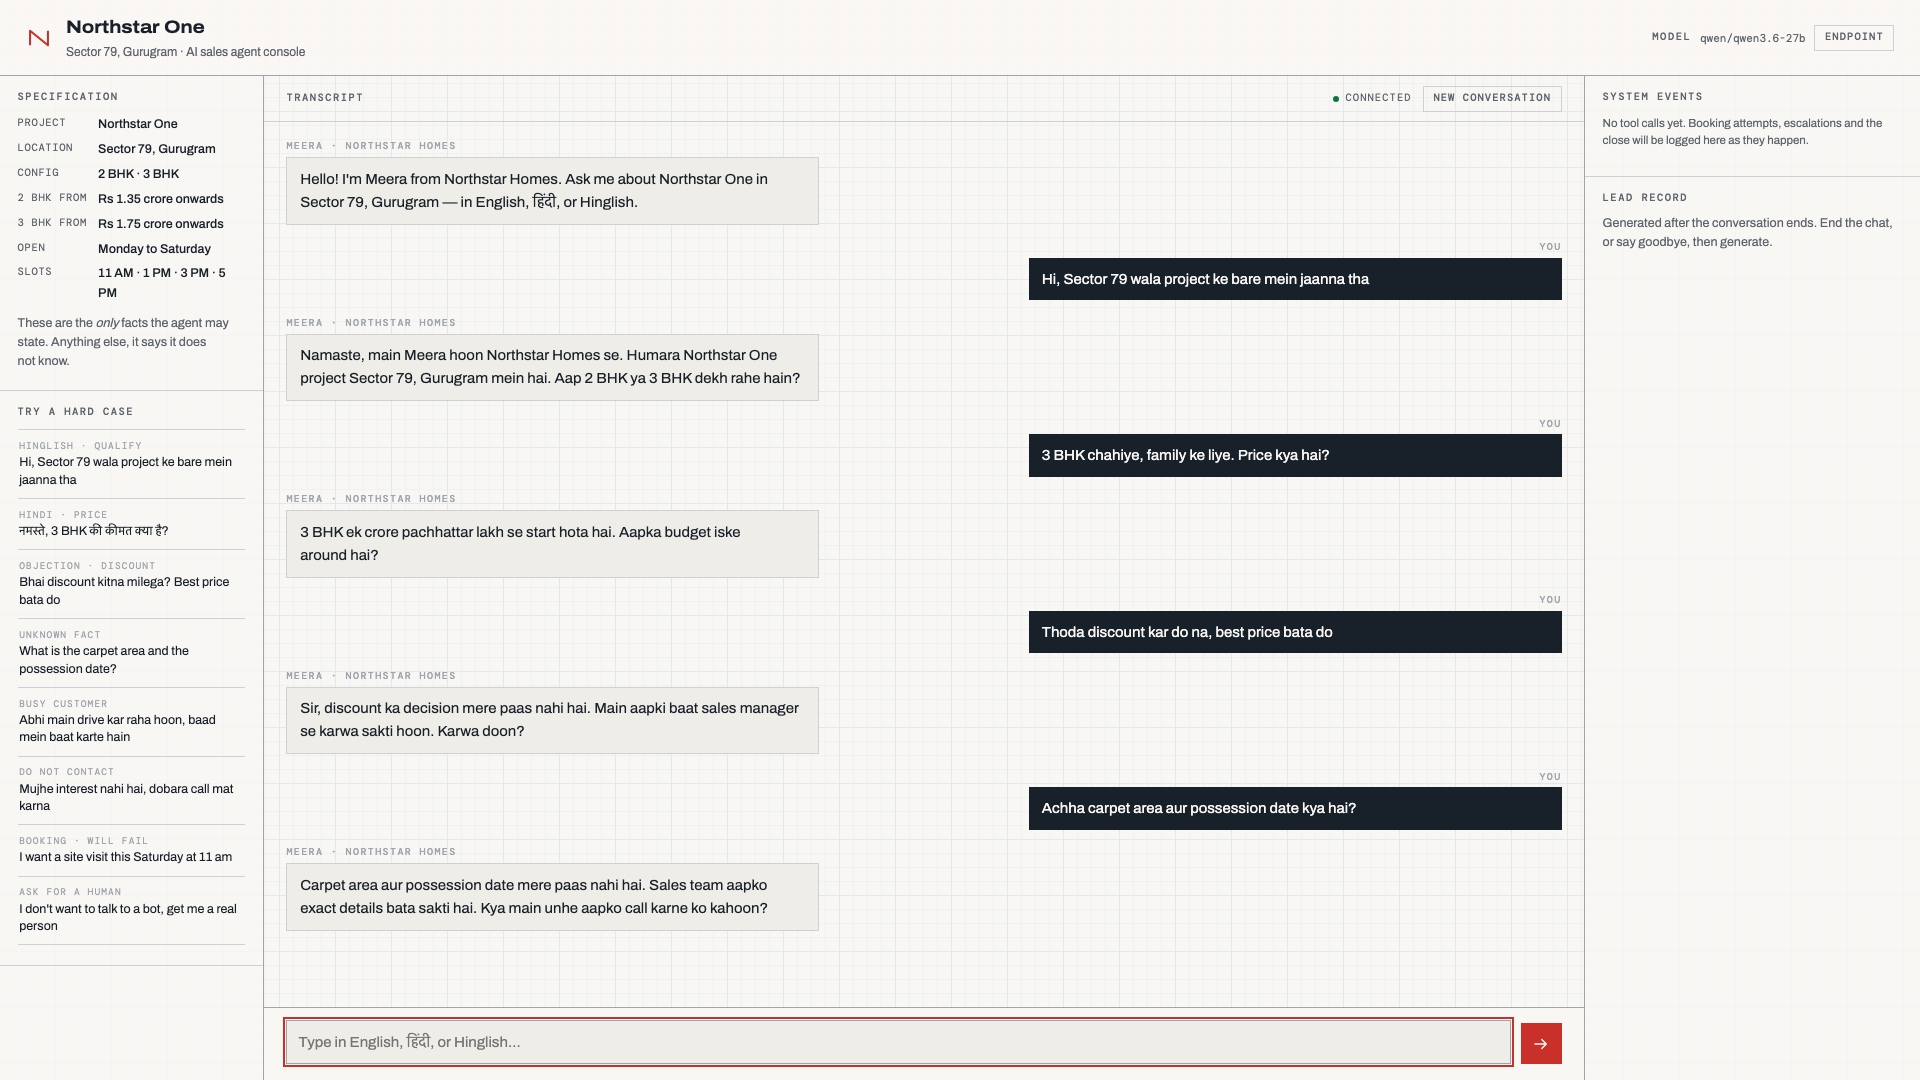
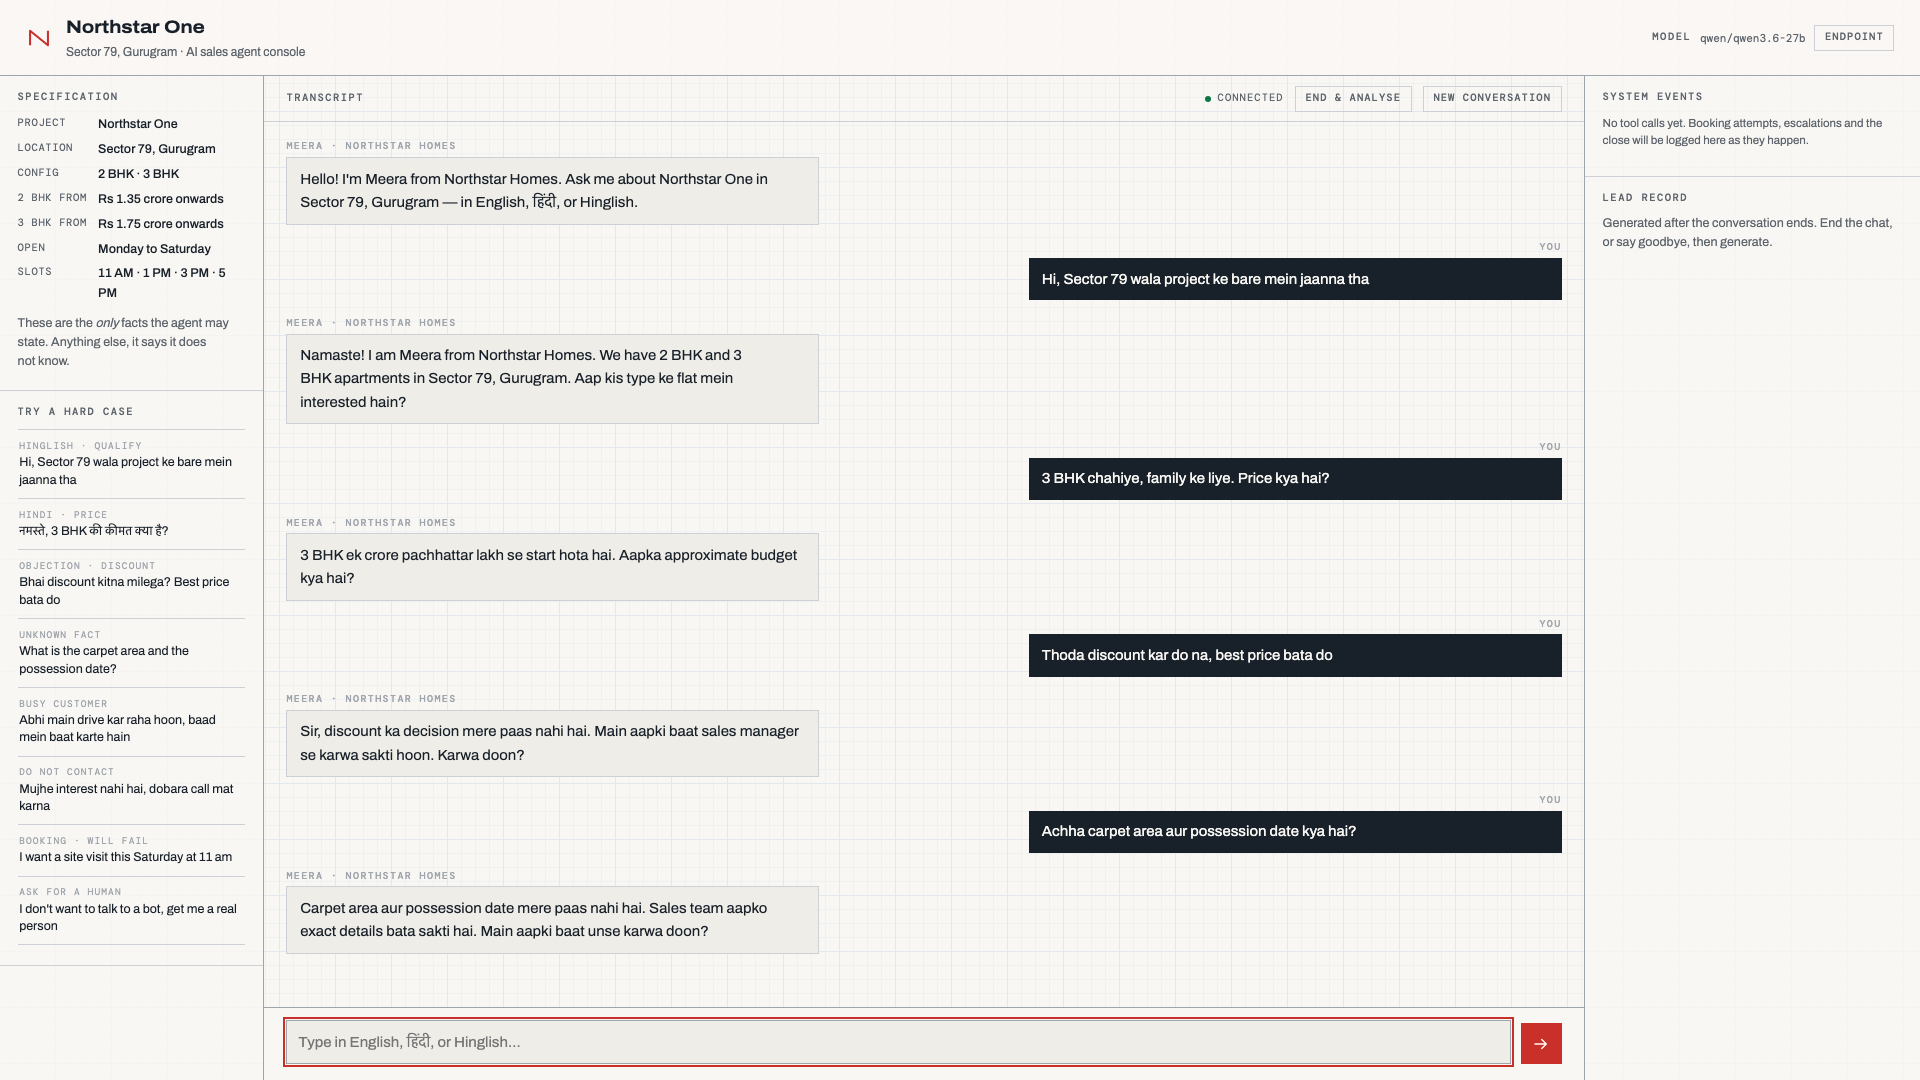
Add manual end-and-analyse control; pace the demo recorder to the voiceover

diff --git a/frontend/app.js b/frontend/app.js
@@ -22,6 +22,7 @@ const el = {
   analyticsBtn: $("#analytics-btn"),
   analyticsSlot: $("#analytics-slot"),
   resetBtn: $("#reset-btn"),
+  endBtn: $("#end-btn"),
   settings: $("#settings"),
   settingsBtn: $("#settings-btn"),
   apiBase: $("#api-base"),
@@ -184,6 +185,7 @@ async function send(text) {
 
 function markEnded(outcome) {
   ended = true;
+  el.endBtn.disabled = true;
   el.endedBar.hidden = false;
   el.endedOutcome.textContent = outcome || "closed";
   el.input.disabled = true;
@@ -387,6 +389,7 @@ function resetConversation() {
   el.analyticsSlot.innerHTML =
     '<p class="empty">Generated after the conversation ends. End the chat, or say goodbye, then generate.</p>';
   el.analyticsBtn.textContent = "Generate lead record";
+  el.endBtn.disabled = false;
   el.input.value = "";
   setBusy(false);
   addMessage("agent",
@@ -411,6 +414,15 @@ el.input.addEventListener("input", () => {
 });
 
 el.resetBtn.addEventListener("click", resetConversation);
+
+// Ending by hand. The agent closes the conversation itself when the customer
+// says goodbye, but a reviewer may want the lead record at any point — and a
+// scripted demo needs the ending to be deterministic.
+el.endBtn.addEventListener("click", () => {
+  if (!sessionId) return;
+  if (!ended) markEnded("ended_manually");
+  generateAnalytics();
+});
 el.analyticsBtn.addEventListener("click", generateAnalytics);
 
 el.settingsBtn.addEventListener("click", () => {

diff --git a/frontend/index.html b/frontend/index.html
@@ -65,6 +65,7 @@
     <div class="convo-head">
       <span class="label">Transcript</span>
       <span class="status" id="conn-status" data-state="idle">connecting</span>
+      <button class="ghost" id="end-btn">End &amp; analyse</button>
       <button class="ghost" id="reset-btn">New conversation</button>
     </div>
 
